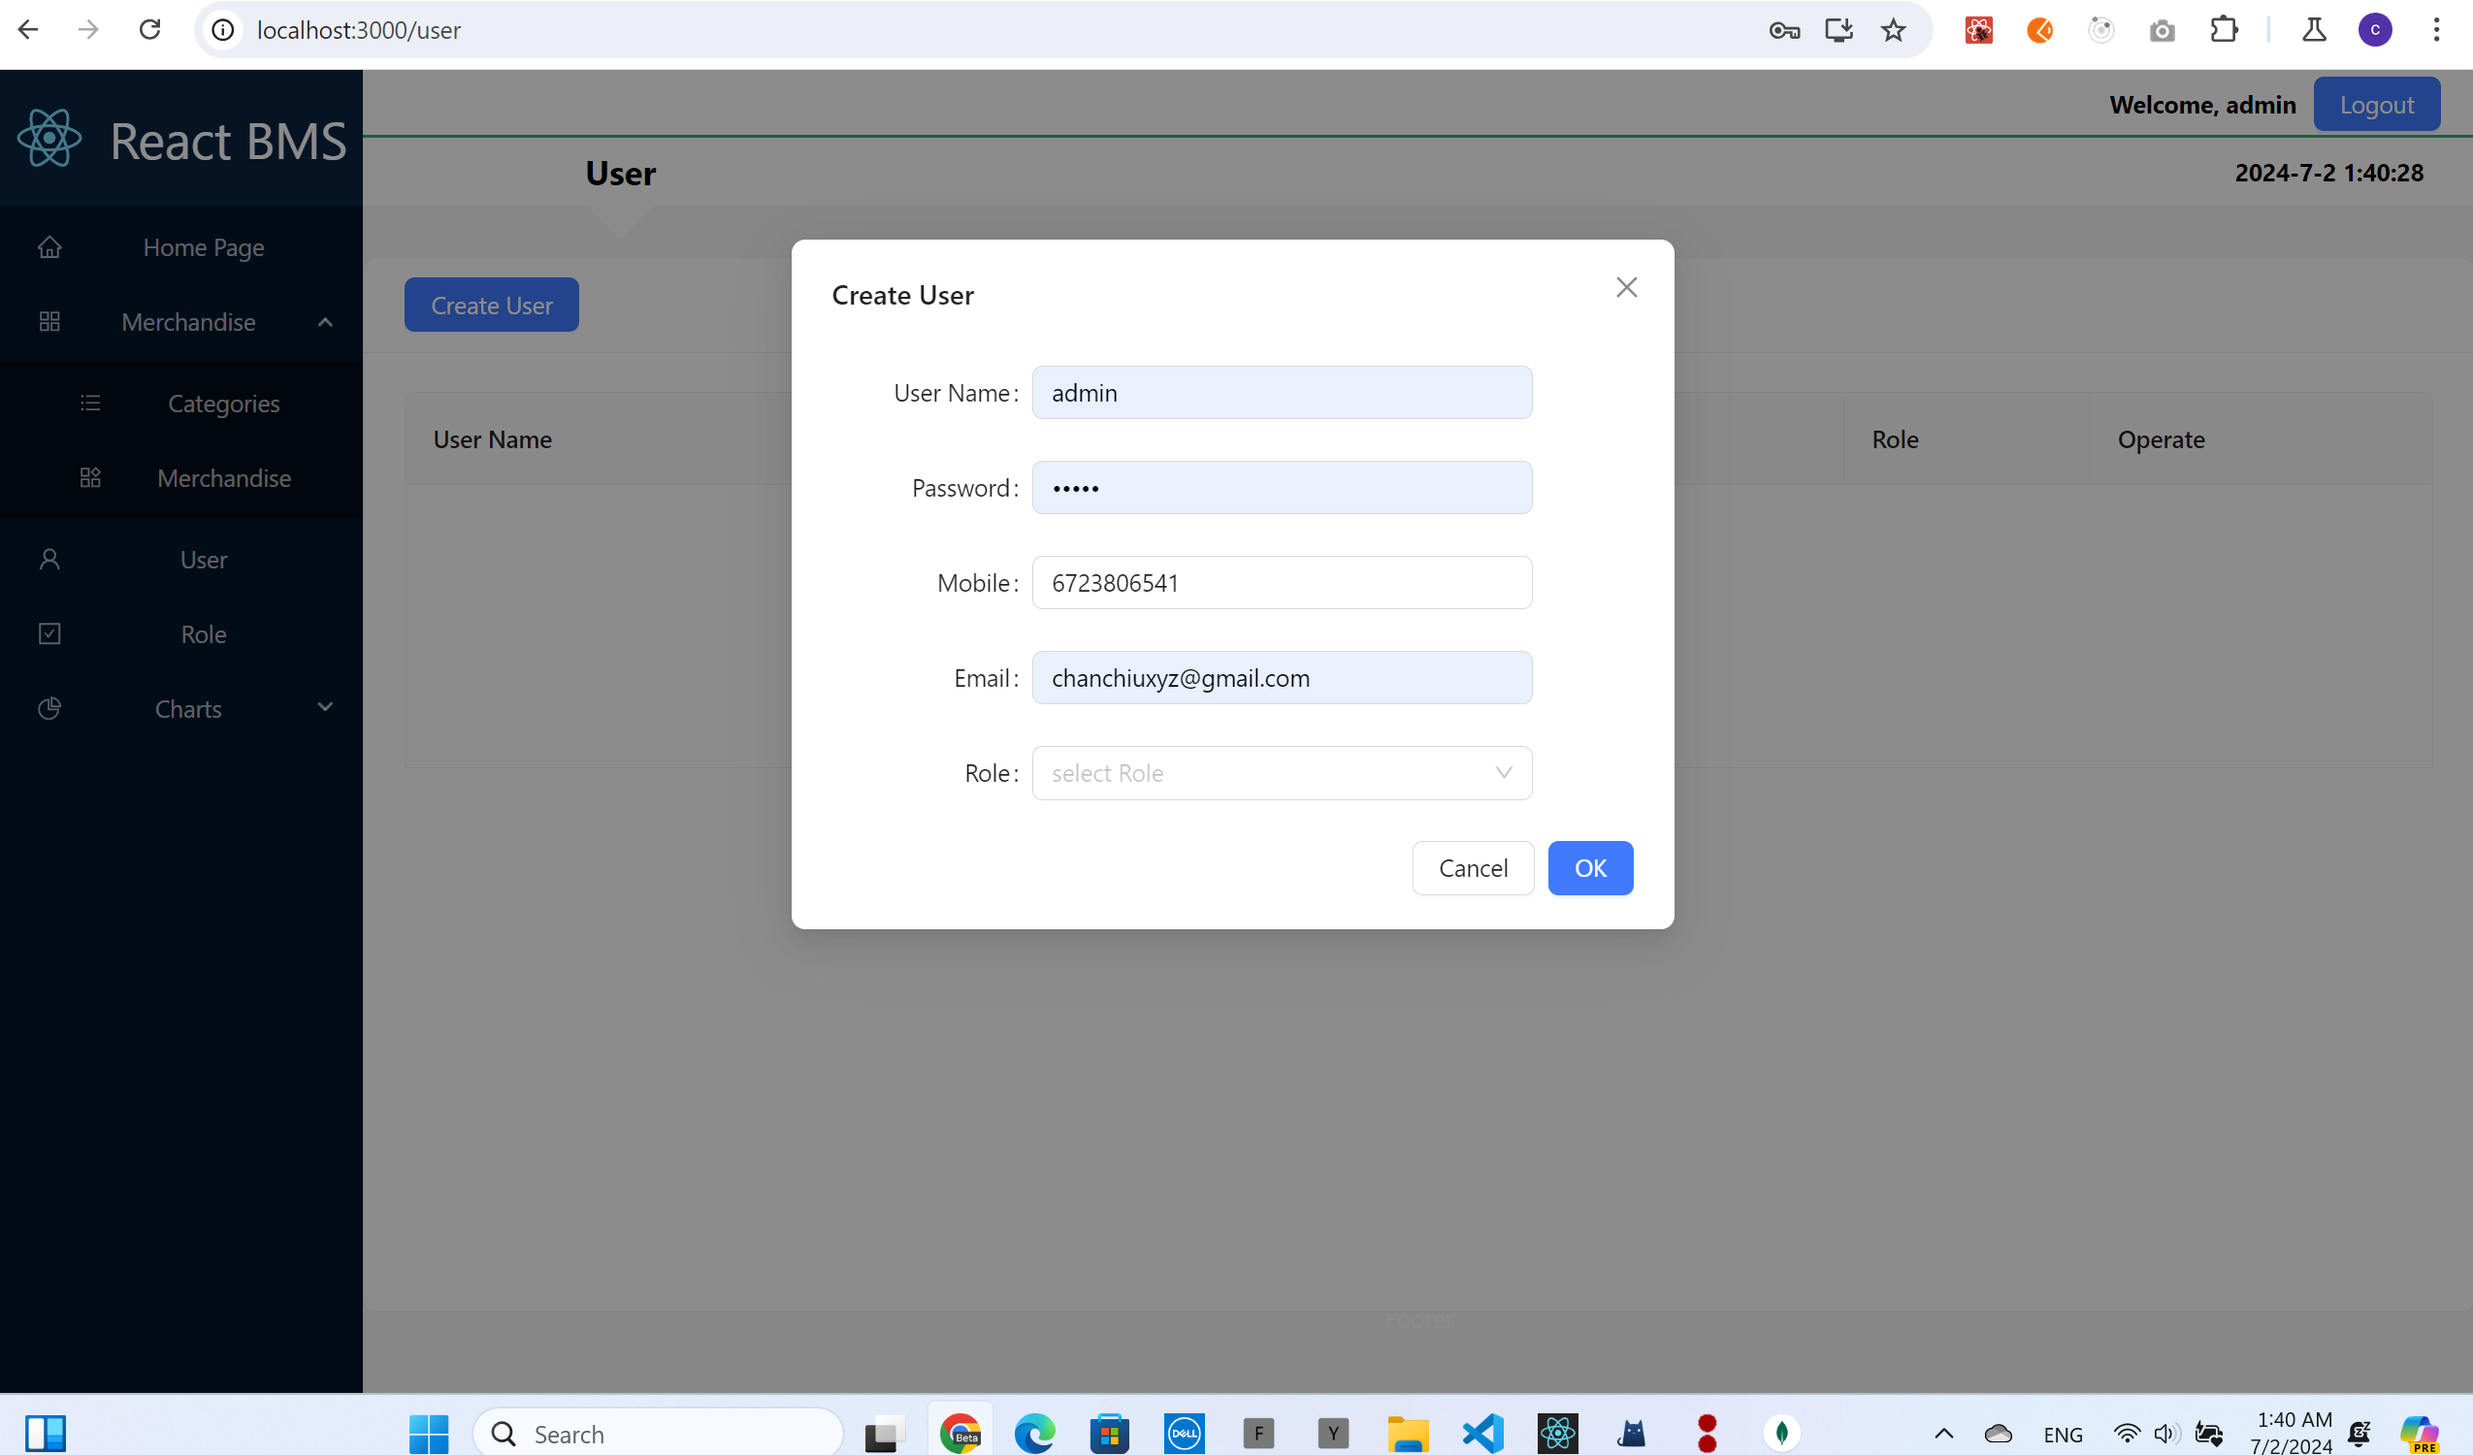
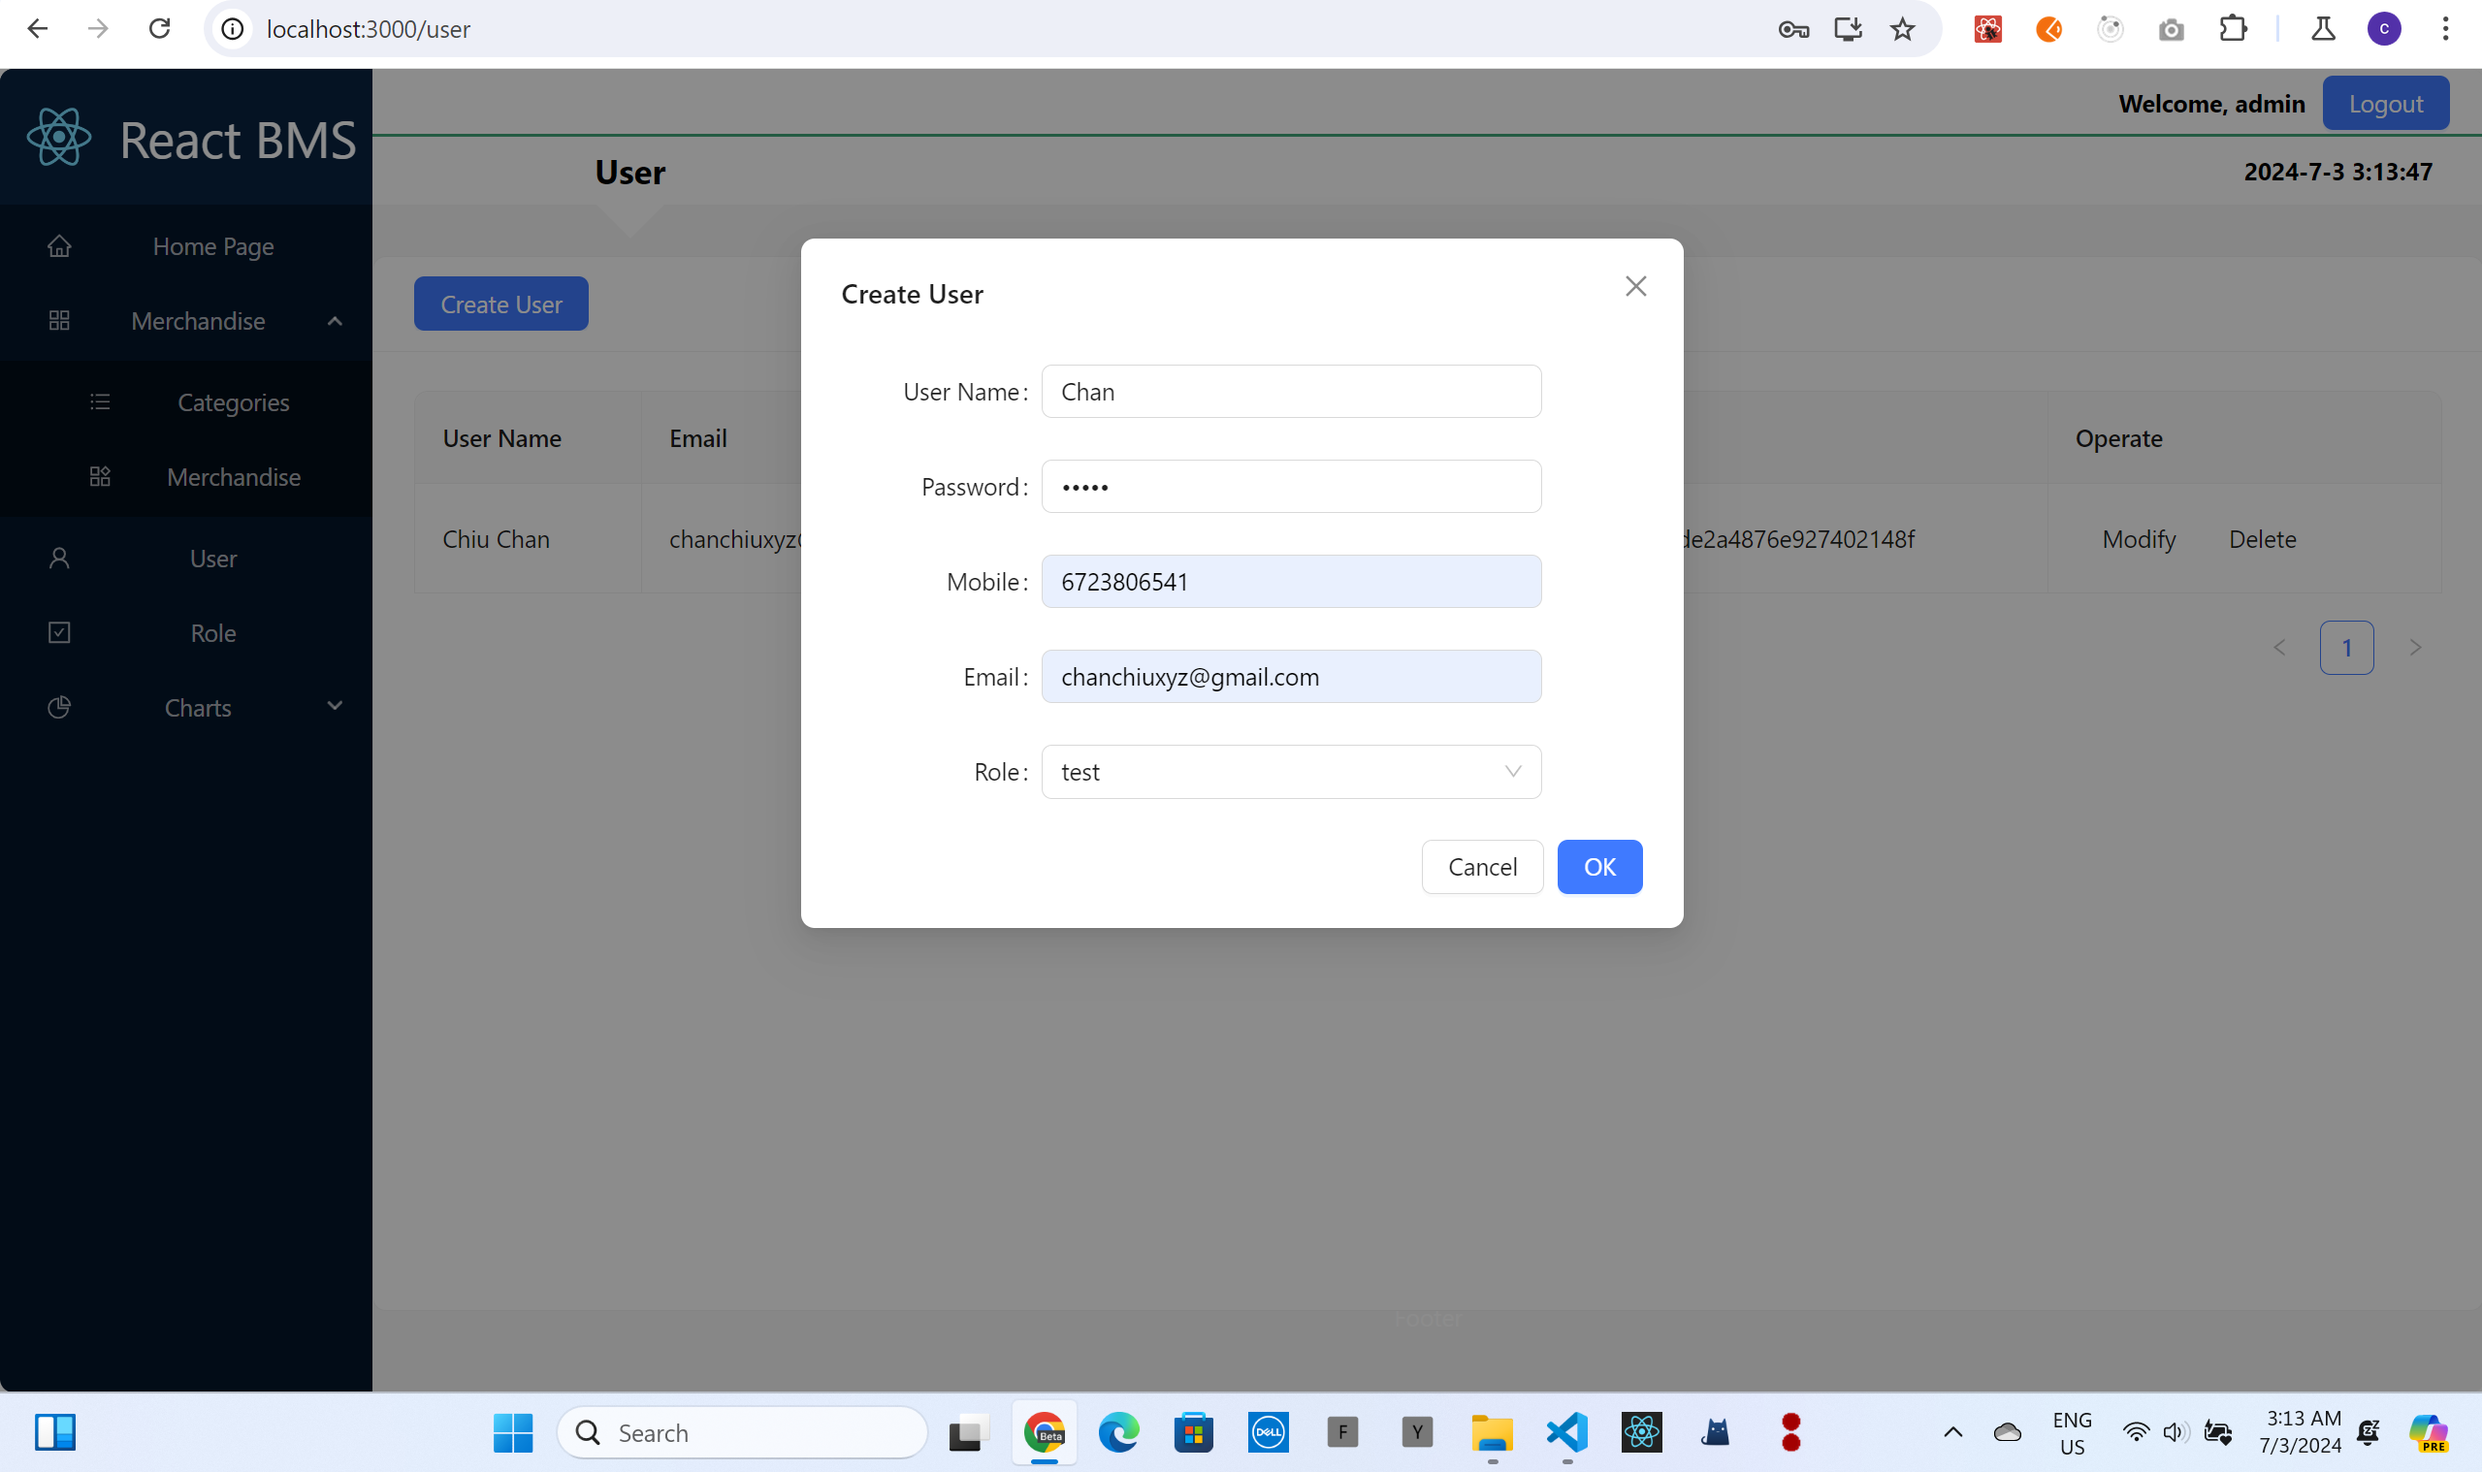
user save

diff --git a/src/pages/user/user.jsx b/src/pages/user/user.jsx
@@ -1,12 +1,13 @@
-import React, { useEffect, useState } from 'react'
+import React, { useEffect, useRef, useState } from 'react'
 
-import { Button, Card, Table, Modal } from 'antd'
+import { Button, Card, Table, Modal, message } from 'antd'
 
 import './user.css'
 import { PAGE_SIZE } from '../../utils/constants'
 import { formateDate } from '../../utils/dateUtils'
-import { reqUsers } from '../../api'
+import { reqAddOrUpdateUser, reqUsers } from '../../api'
 import UserForm from './user-form'
+// import MyInput from './input'
 
 
 export default function User() {
@@ -15,6 +16,7 @@ export default function User() {
   const [user, setUser] = useState(null)
   const [roles, setRoles] = useState([])
   const [isShow, setIsShow] = useState(false)
+  const formRef = useRef(null)
 
 
   useEffect(() => {
@@ -42,6 +44,26 @@ export default function User() {
           </Button>
   )
 
+  const addOrUpdateUser = async() => {
+    try {
+      setIsShow(false)
+      const values = await formRef.current.validateFields();
+      // console.log('formData:', values);
+      // handle form data
+      const formUser = values
+      if (user) {
+        formUser._id = user._id
+      }
+      const result = await reqAddOrUpdateUser(formUser)
+      if (result.status === 0) {
+        console.log(user)
+        message.success(user? 'update successed' : 'create successed')
+        getUsers()
+      }
+    } catch (errorInfo) {
+      console.log('err:', errorInfo);
+    }
+  }
 
   const columns = [
         {
@@ -92,8 +114,13 @@ export default function User() {
             title={user && user.id ? 'Modify User' : 'Create User'}
             open={isShow}
             onCancel={()=> setIsShow(false)}
+            onOk={addOrUpdateUser}
         >
-          <UserForm />
+          {/* <UserForm ref={formRef} /> */}
+          <UserForm ref={formRef}
+                    roles={roles}
+                    user={user}
+          />
 
         </Modal>
     </Card>

diff --git a/src/pages/user/user-form.jsx b/src/pages/user/user-form.jsx
@@ -1,40 +1,50 @@
-import React from 'react'
+import React, { forwardRef } from 'react'
 
 import { Form, Input, Select } from 'antd'
 
 const {Item} = Form
+const Option = Select.Option
 
-export default function UserForm(props) {
+ const UserForm = forwardRef(function UserForm(props, ref) {
 
     const formItemLayout = {
         labelCol: { span: 6 },  
         wrapperCol: { span: 15 },
     }
+    const {roles, user} = props
   return (
-    <Form {...formItemLayout} className='user-form'>
-        <Item label='User Name:'>
+    <Form {...formItemLayout} className='user-form' ref={ref}>
+        <Item label='User Name:' name='username'>
             <Input placeholder='user name' />
 
         </Item>
 
-        <Item label='Password'>
+        <Item label='Password' name='password'>
             <Input type='password' placeholder='password'/>
 
         </Item>
 
-        <Item label='Mobile'>
+        <Item label='Mobile' name='phone'>
             <Input placeholder='mobile' />
 
         </Item>
         
-        <Item label='Email'>
+        <Item label='Email' name='email'>
             <Input placeholder='email' />
 
         </Item>
         
-        <Item label='Role'>
+        <Item label='Role' name='role_id'>
             <Select placeholder='select Role'>
-
+               {
+                    roles.map(role => 
+                        <Option                             
+                          key={role._id}
+                          value={role.id}  
+                        >
+                           {role.name}
+                        </Option>)
+                } 
             </Select>
 
         </Item>
@@ -42,3 +52,6 @@ export default function UserForm(props) {
     </Form>
   )
 }
+)
+
+export default UserForm;

diff --git a/src/pages/user/input.jsx b/src/pages/user/input.jsx
@@ -1,0 +1,46 @@
+import { forwardRef } from 'react';
+import { Form, Input, Select } from 'antd'
+const {Item} = Form
+
+const MyInput = forwardRef(function MyInput(props, ref) {
+    const formItemLayout = {
+        labelCol: { span: 6 },  
+        wrapperCol: { span: 15 },
+    }
+  return (
+    
+    
+    <Form {...formItemLayout}  className='user-form' ref={ref}>
+    <Item label='User Name:' name='username'>
+        <Input placeholder='user name' />
+
+    </Item>
+
+    <Item label='Password' name='password'>
+        <Input type='password' placeholder='password'/>
+
+    </Item>
+
+    <Item label='Mobile' name='phone'>
+        <Input placeholder='mobile' />
+
+    </Item>
+    
+    <Item label='Email' name='email'>
+        <Input placeholder='email' />
+
+    </Item>
+    
+    <Item label='Role' name='role_id'>
+        <Select placeholder='select Role'>
+
+        </Select>
+
+    </Item>
+
+</Form>
+    
+  );
+});
+
+export default MyInput;

diff --git a/README.md b/README.md
@@ -359,6 +359,9 @@ router.get('/manage/user/list', (req, res) => {
 ## user layout (Jul/2/2024)
 ![](./screenShot/usercreate.png)
 
+## user save to back-end and show in front-end  (Jul/2/2024)
+![](./screenShot/userlist.png)
+
 
 
 
